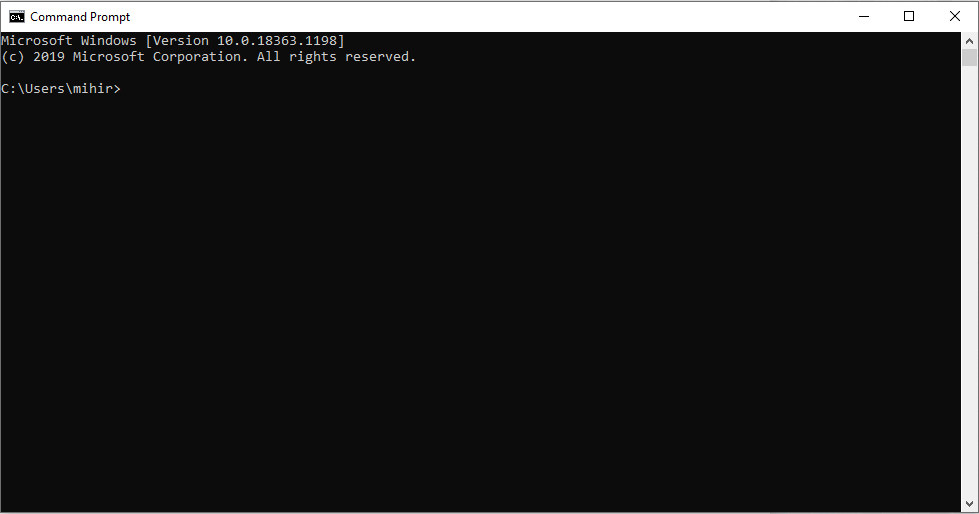
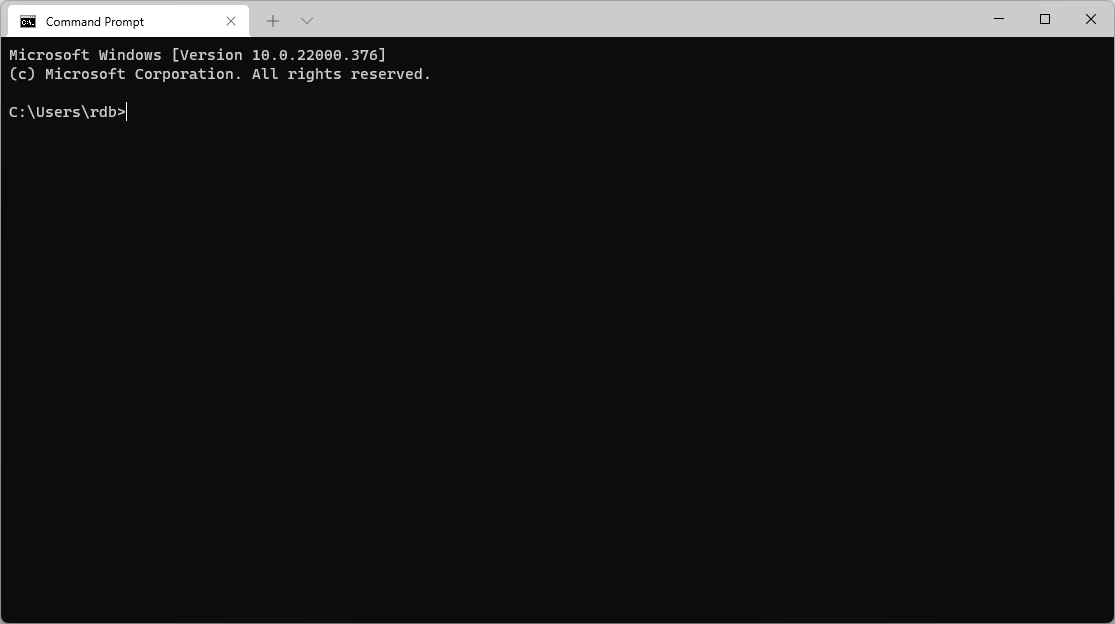
Updates for Windows 11, make "running your program" less Windows-only

Changed region(s): [[0.0, 0.0, 1.0, 1.0], [0.0, 0.1556, 0.1226, 0.1868]]

diff --git a/introduction/running-your-program.rst b/introduction/running-your-program.rst
@@ -8,43 +8,39 @@ Running your Program
    Using Command Prompt to Run your Program
    ----------------------------------------
 
-   You can run your script by using your computer’s ‘Command Prompt’. You can
-   access this by clicking ‘Start > All Programs > Accessories > Command
-   Prompt’, or by going to 'Start > Run' and typing 'cmd'. When it opens, it
-   should look something like this:
+   You can run your script by using your computer's "Terminal" or
+   "Command Prompt". When you open it, it should look something like this:
 
    .. image:: running-your-program-1.png
 
-   At the moment it’s pointing to its default directory, which in my case is
-   ‘Documents and Settings’ (it doesn’t matter if yours is different). We need
-   to change the directory to the one where we saved our script. To do this, we
-   use the ``cd`` command. This stands for ‘change directory’. Type the
-   following text after the > symbol:
+   At the moment it’s pointing to its default directory, which is typically the
+   user directory in ``C:\Users\username``, ``/home/user`` or ``/Users/user``,
+   depending on your operating system. We need to change the directory to the
+   one where we saved our script. To do this, we use the ``cd`` command. This
+   stands for ‘change directory’. For example, if the script is saved in a
+   MyProject folder inside the home directory, we should type this:
 
    .. code-block:: bat
 
-      cd C:\Panda3D-1.11.0-x64\mystuff\
+      cd MyProject
 
-   Instead of version 1.11.0-x64, you should type the version number of Panda3D
-   that you have downloaded and installed. Please note that this folder name is
-   case-sensitive and must match exactly (other than the version number, of
-   course). Then, press the ‘Enter’ key on your keyboard. You should now have
-   the following on the Command Prompt:
+   Please note that this folder name is case-sensitive and must match exactly.
+   Then, press the ‘Enter’ key on your keyboard. You should now have the
+   following on the Command Prompt:
 
    .. image:: running-your-program-2.png
 
-   This means that it’s now pointing to the right directory. To run your script
-   and start Panda3D, type the following text after the > symbol:
+   This means that it’s now pointing to the right directory. Assuming the script
+   has been named ``main.py``, type the following text after the > symbol:
 
    .. code-block:: bash
 
-      ppython myscript.py
+      python main.py
 
    .. image:: running-your-program-3.png
 
-   Press the ‘Enter’ key on your keyboard. This will run the version of Python
-   that is distributed with Panda3D. If all is well, Panda3D will start and you
-   should see the main rendering window appear.
+   Press the ‘Enter’ key on your keyboard. If all is well, Panda3D will start
+   and you should see the main rendering window appear.
 
    .. image:: running-your-program-4.png
 

diff --git a/introduction/installation-windows.rst b/introduction/installation-windows.rst
@@ -57,9 +57,9 @@ is configured to indicate the location of python. However, some PCs have unusual
 security configurations that prevent the installer from modifying the PATH. This
 can result in the error message shown above.
 
-To solve this problem, it may be necessary to modify the PATH manually. Click on
-the "My Computer" icon on your desktop and select Properties. Choose the tab
-"Advanced". Click the Button "Environment Variables":
+To solve this problem, it may be necessary to modify the PATH manually.
+Right-click the Start icon, click System, and then "Advanced sytem settings".
+Then, click the button "Environment Variables":
 
 .. image:: environvariables.png
 
